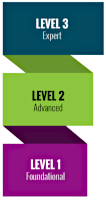
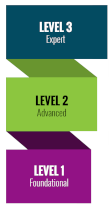
Re-sampled images

diff --git a/CSETWebNg/src/app/assessment/prepare/maturity/model-select/model-select.component.html b/CSETWebNg/src/app/assessment/prepare/maturity/model-select/model-select.component.html
@@ -76,7 +76,7 @@
         </p>
       </div>
       <div style="max-width: 50%" class="text-center pl-3">
-        <img src="assets/images/CMMC/Levels_cmmc2_200px.png" alt="CMMC levels" style="height: 200px; width: auto" />
+        <img src="assets/images/CMMC/Levels_cmmc2_200px.png" alt="CMMC levels" style="height: 210px; width: auto" />
       </div>
     </div>
   </mat-card>
